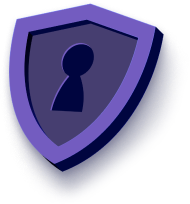
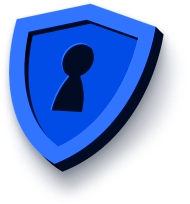
color code updated

diff --git a/src/app/pages/bim-usa/top-vendors/top-vendors.component.scss b/src/app/pages/bim-usa/top-vendors/top-vendors.component.scss
@@ -133,7 +133,7 @@
         &>div{position: relative;}
   
         .projectCategory {
-          color: #886de0;
+          color: #0053fa;
           font-family: var(--semibold-global);
           font-size: 14px;
         }
@@ -333,12 +333,12 @@
       }
     }
 
-    .cardFooter{color: #886de0;
+    .cardFooter{color: #0053fa;
       font-family: var(--semibold-global);
       font-size: 14px;
       display: flex;
       gap: 10px;
-     a{color: #886de0;}
+     a{color: #0053fa;}
     }
 
   }

diff --git a/src/app/pages/bim/top-vendors/top-vendors.component.scss b/src/app/pages/bim/top-vendors/top-vendors.component.scss
@@ -133,7 +133,7 @@
         &>div{position: relative;}
   
         .projectCategory {
-          color: #886de0;
+          color: #0053fa;
           font-family: var(--semibold-global);
           font-size: 14px;
         }
@@ -333,12 +333,12 @@
       }
     }
 
-    .cardFooter{color: #886de0;
+    .cardFooter{color: #0053fa;
       font-family: var(--semibold-global);
       font-size: 14px;
       display: flex;
       gap: 10px;
-     a{color: #886de0;}
+     a{color: #0053fa;}
     }
 
   }

diff --git a/src/app/pages/cad-services/top-vendors/top-vendors.component.scss b/src/app/pages/cad-services/top-vendors/top-vendors.component.scss
@@ -133,7 +133,7 @@
         &>div{position: relative;}
   
         .projectCategory {
-          color: #886de0;
+          color: #0053fa;
           font-family: var(--semibold-global);
           font-size: 14px;
         }
@@ -333,12 +333,12 @@
       }
     }
 
-    .cardFooter{color: #886de0;
+    .cardFooter{color: #0053fa;
       font-family: var(--semibold-global);
       font-size: 14px;
       display: flex;
       gap: 10px;
-     a{color: #886de0;}
+     a{color: #0053fa;}
     }
 
   }

diff --git a/src/app/pages/drafting-services/top-vendors/top-vendors.component.scss b/src/app/pages/drafting-services/top-vendors/top-vendors.component.scss
@@ -133,7 +133,7 @@
         &>div{position: relative;}
   
         .projectCategory {
-          color: #886de0;
+          color: #0053fa;
           font-family: var(--semibold-global);
           font-size: 14px;
         }
@@ -333,12 +333,12 @@
       }
     }
 
-    .cardFooter{color: #886de0;
+    .cardFooter{color: #0053fa;
       font-family: var(--semibold-global);
       font-size: 14px;
       display: flex;
       gap: 10px;
-     a{color: #886de0;}
+     a{color: #0053fa;}
     }
 
   }

diff --git a/src/app/pages/steel-detailing-usa/top-vendors/top-vendors.component.scss b/src/app/pages/steel-detailing-usa/top-vendors/top-vendors.component.scss
@@ -133,7 +133,7 @@
         &>div{position: relative;}
   
         .projectCategory {
-          color: #886de0;
+          color: #0053fa;
           font-family: var(--semibold-global);
           font-size: 14px;
         }
@@ -333,12 +333,12 @@
       }
     }
 
-    .cardFooter{color: #886de0;
+    .cardFooter{color: #0053fa;
       font-family: var(--semibold-global);
       font-size: 14px;
       display: flex;
       gap: 10px;
-     a{color: #886de0;}
+     a{color: #0053fa;}
     }
 
   }

diff --git a/src/app/pages/structural-steel/top-vendors/top-vendors.component.scss b/src/app/pages/structural-steel/top-vendors/top-vendors.component.scss
@@ -133,7 +133,7 @@
         &>div{position: relative;}
   
         .projectCategory {
-          color: #886de0;
+          color: #0053fa;
           font-family: var(--semibold-global);
           font-size: 14px;
         }
@@ -333,12 +333,12 @@
       }
     }
 
-    .cardFooter{color: #886de0;
+    .cardFooter{color: #0053fa;
       font-family: var(--semibold-global);
       font-size: 14px;
       display: flex;
       gap: 10px;
-     a{color: #886de0;}
+     a{color: #0053fa;}
     }
 
   }

diff --git a/src/app/pages/bim/precast-service/precast-service.component.scss b/src/app/pages/bim/precast-service/precast-service.component.scss
@@ -71,9 +71,9 @@
             margin: 0;
             font-family: inherit;
             &.activeContainer {
-                color: #886de0;
+                color: #0053fa;
                 font-weight: 600;
-                // border-bottom: 2px solid #886de0;
+                // border-bottom: 2px solid #0053fa;
             }
         }
     }

diff --git a/src/app/pages/bim-usa/e2e-encryption/e2e-encryption.component.scss b/src/app/pages/bim-usa/e2e-encryption/e2e-encryption.component.scss
@@ -4,7 +4,7 @@
 
     .e2eSection {
         border-radius: 20px;
-        background: linear-gradient(90deg, #886DE0 0%, #2E2253 100%);
+        background: linear-gradient(90deg, #0053fa 0%, #0053fa 100%);
         color: white;
         padding: 40px 80px 40px 40px;
         position: relative;

diff --git a/src/app/pages/bim/e2e-encryption/e2e-encryption.component.scss b/src/app/pages/bim/e2e-encryption/e2e-encryption.component.scss
@@ -4,7 +4,7 @@
 
     .e2eSection {
         border-radius: 20px;
-        background: linear-gradient(90deg, #886DE0 0%, #2E2253 100%);
+        background: linear-gradient(90deg, #0053fa 0%, #0053fa 100%);
         color: white;
         padding: 40px 80px 40px 40px;
         position: relative;

diff --git a/src/app/pages/cad-services/e2e-encryption/e2e-encryption.component.scss b/src/app/pages/cad-services/e2e-encryption/e2e-encryption.component.scss
@@ -4,7 +4,7 @@
 
     .e2eSection {
         border-radius: 20px;
-        background: linear-gradient(90deg, #886DE0 0%, #2E2253 100%);
+        background: linear-gradient(90deg, #0053fa 0%, #0053fa 100%);
         color: white;
         padding: 40px 80px 40px 40px;
         position: relative;

diff --git a/src/app/pages/drafting-services/e2e-encryption/e2e-encryption.component.scss b/src/app/pages/drafting-services/e2e-encryption/e2e-encryption.component.scss
@@ -4,7 +4,7 @@
 
     .e2eSection {
         border-radius: 20px;
-        background: linear-gradient(90deg, #886DE0 0%, #2E2253 100%);
+        background: linear-gradient(90deg, #0053fa 0%, #0053fa 100%);
         color: white;
         padding: 40px 80px 40px 40px;
         position: relative;

diff --git a/src/app/pages/rebar/e2e-encryption/e2e-encryption.component.scss b/src/app/pages/rebar/e2e-encryption/e2e-encryption.component.scss
@@ -4,7 +4,7 @@
 
     .e2eSection {
         border-radius: 20px;
-        background: linear-gradient(90deg, #0053fa 0%, #2E2253 100%);
+        background: linear-gradient(90deg, #0053fa 0%, #0053fa 100%);
         color: white;
         padding: 40px 80px 40px 40px;
         position: relative;
